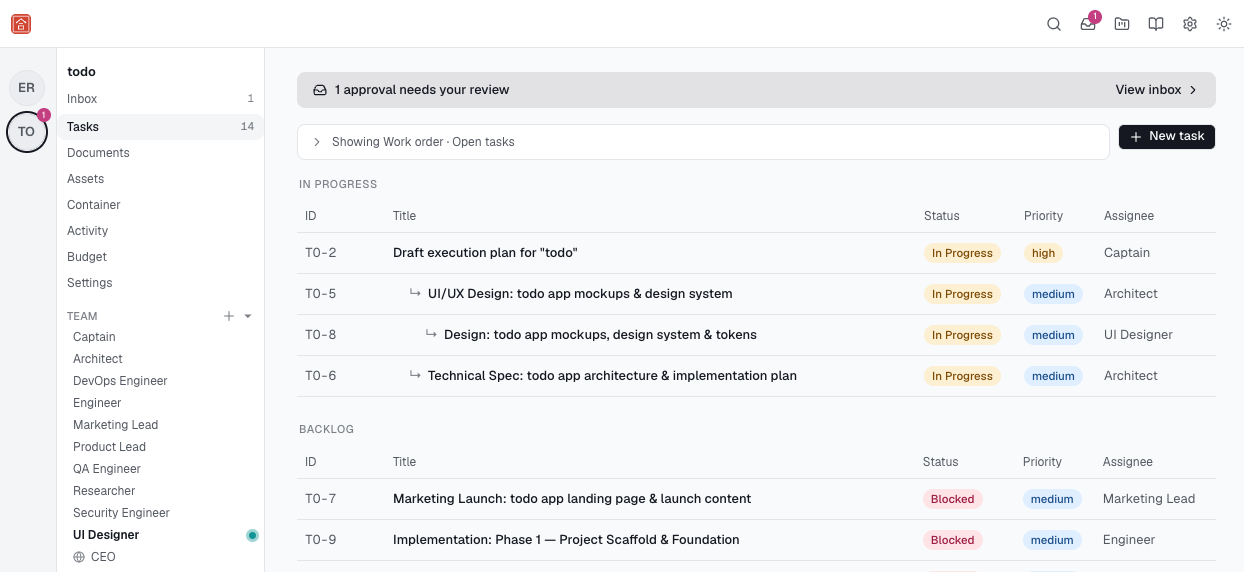
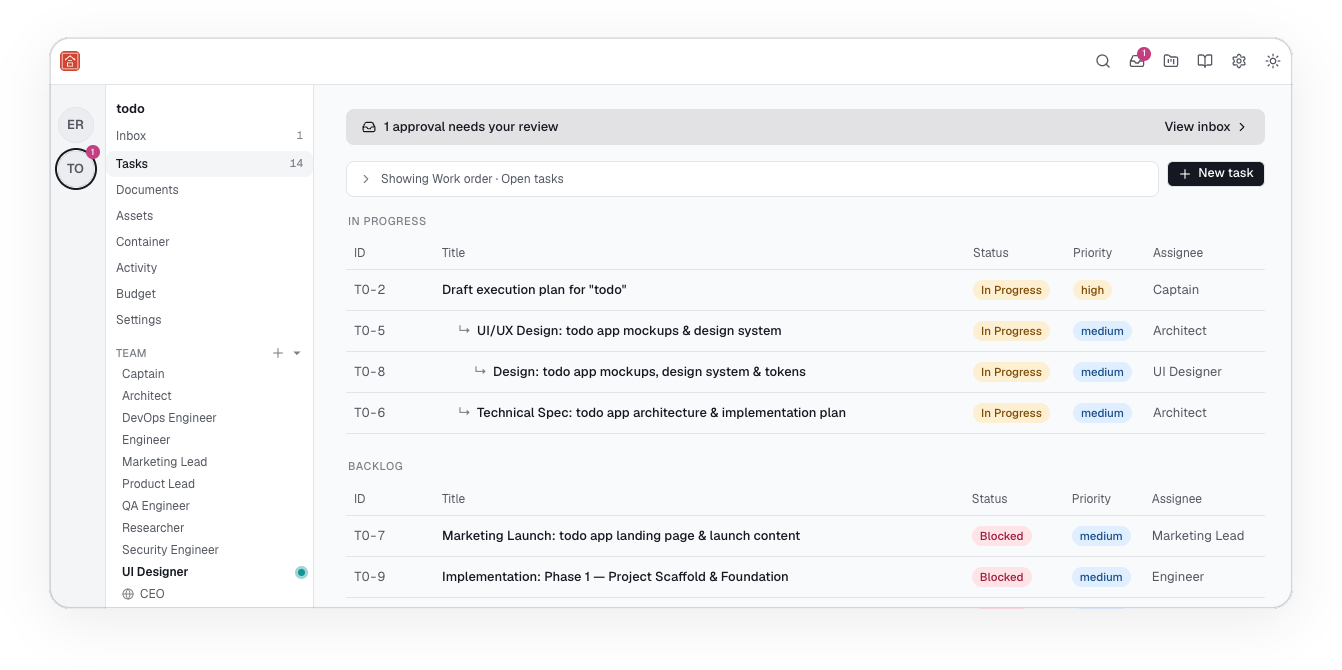
docs(readme): round corners and add drop shadow to splash image
GitHub strips CSS from rendered READMEs, so border-radius/box-shadow
can't be applied in markup — bake the treatment into the PNG instead:
transparent rounded corners, a hairline border, and a soft drop shadow
on a transparent background (blends on both light and dark themes).
Bump the img width to 863 so the screenshot content stays ~800px wide
after the added shadow padding.

Claude-Session: https://claude.ai/code/session_01PSiVAprQ2VoUGo1F4B5G58

diff --git a/README.md b/README.md
@@ -30,7 +30,7 @@
 </p>
 
 <p align="center">
-  <img src="assets/hero.png" alt="The Hezo web app — a project task board with its team of AI agents" width="800" />
+  <img src="assets/hero.png" alt="The Hezo web app — a project task board with its team of AI agents" width="863" />
 </p>
 
 <!-- TODO(founder): a 15–20s demo GIF would convert even better than this static shot —
